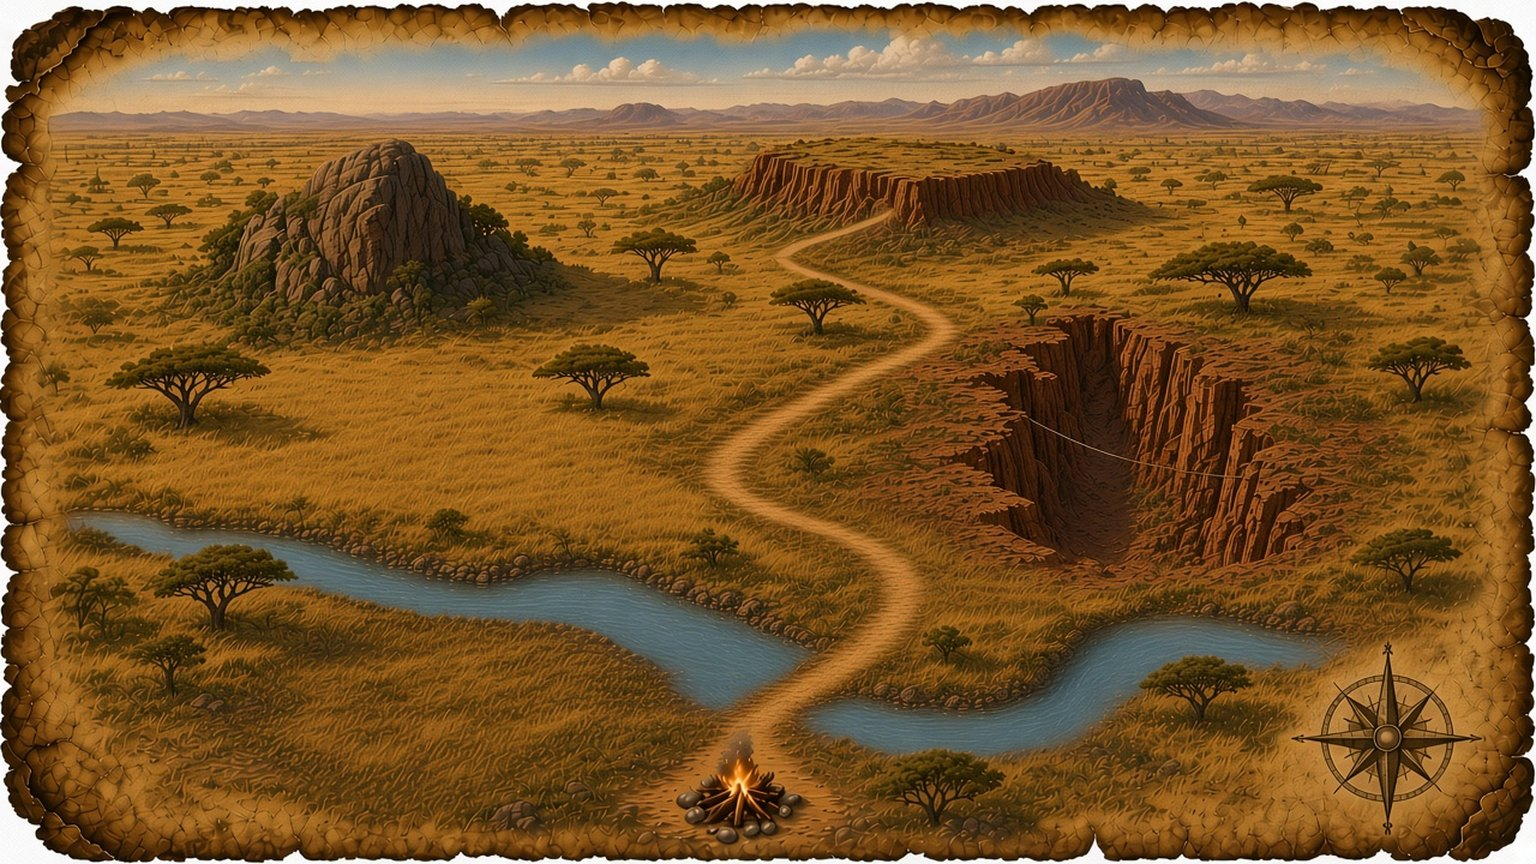
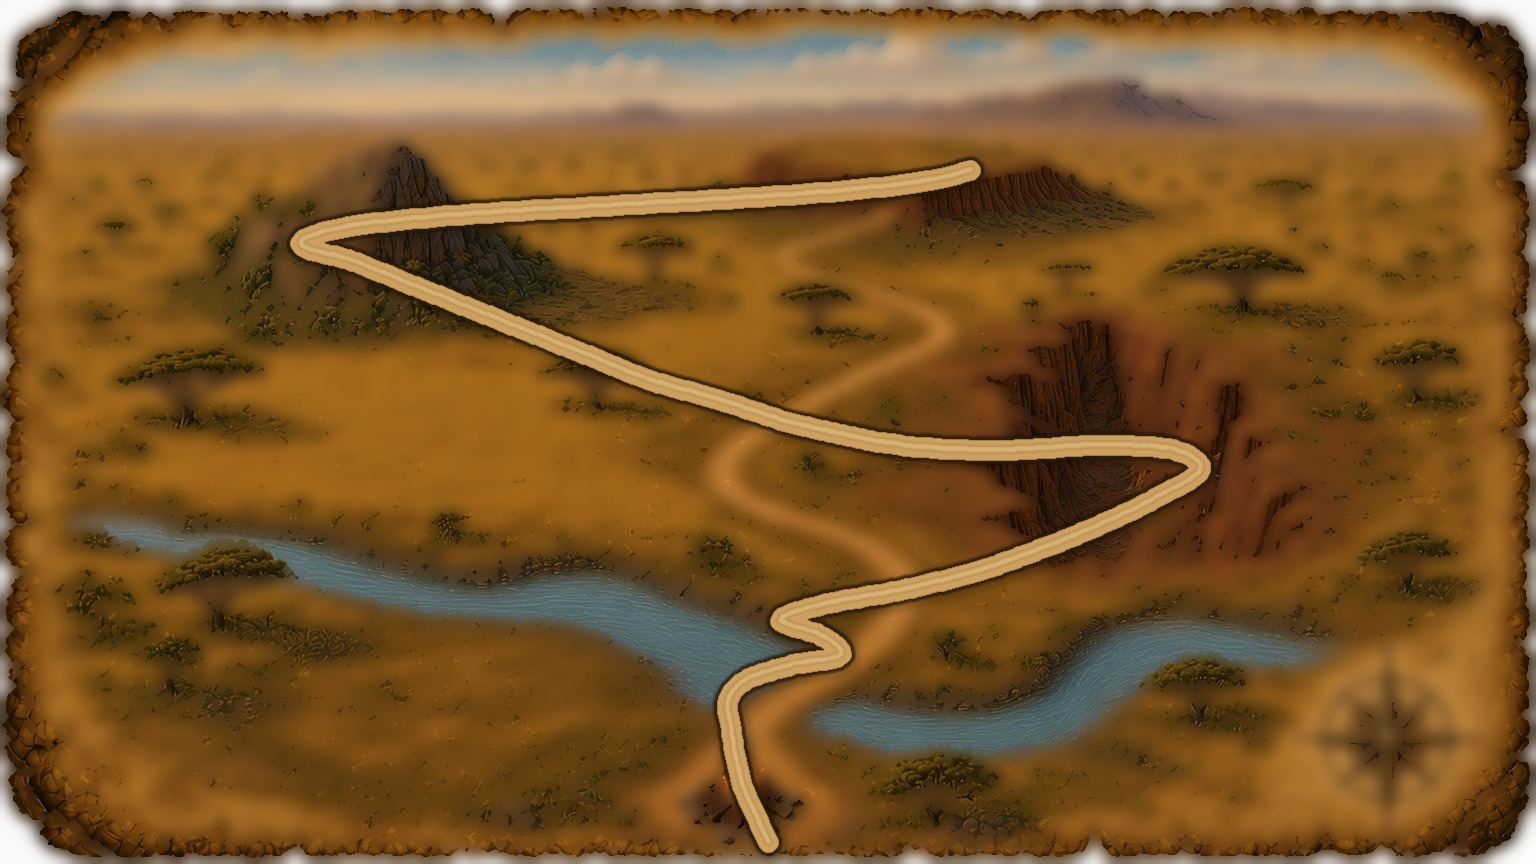
Make painted trail the only path: drop SVG connectors, route dots on centerline
- Remove SVG trail outline/path between milestones; markers sit on the
  painted dirt trail at terrain landmarks (river ford, cave/ridge/lagoon,
  gorge/kopje/mesa, climb/slope/campsite/summit).
- Dense path polylines (~350–480 pts) sample the painted trail centerline
  so progress dots follow it; mountain trail boosted for visibility.
- Map banner subtitle uses mapLabel (e.g. The River) — story names stay
  in setup captions only.

Changed region(s): [[0.0, 0.0, 1.0, 1.0], [0.2188, 0.7812, 0.25, 0.8125], [0.1875, 0.8125, 0.2188, 0.8438]]

diff --git a/index.html b/index.html
@@ -396,8 +396,7 @@ img.cv.kb { animation:kb 9s ease-out forwards; }
 .mapbox .mname { font-size:clamp(0.8rem, 2.3vh, 1.15rem); }
 .mapbox .mlb { right:2%; bottom:2%; min-width:48px; height:48px; font-size:1.2rem; }
 @keyframes mapIn { from { opacity:0; transform:scale(1.08) rotate(-1.5deg); } to { opacity:1; transform:none; } }
-.trail-outline { fill:none; stroke:#3a2410; stroke-width:11; stroke-linecap:round; stroke-linejoin:round; opacity:.42; }
-.trail-path { fill:none; stroke:#d2a86a; stroke-width:6; stroke-linecap:round; stroke-linejoin:round; opacity:.72; }
+.trail-outline, .trail-path { display:none; }
 .mlab rect { fill:rgba(20,12,4,.78); stroke:#f3c65a; stroke-width:2; rx:10; }
 .mlab text { fill:#fff3d0; font:800 20px "Cinzel MVM", Georgia, serif; text-anchor:middle; dominant-baseline:central; }
 .mlab.cur rect { fill:rgba(140,30,18,.88); stroke:#ffd43b; }
@@ -1748,31 +1747,180 @@ const ASSET = n => "assets/" + n;
 const DEV = /[?&]dev=1\b/.test(location.search);
 const EP_INFO = [
   { name: "The Jungle", filter: "", soon: "", map: "map-jungle-wide", rendezvous: "The Lagoon",
-    pts: [[768, 820], [690, 700], [1100, 470], [380, 340], [790, 235]],
-    lab: [[125, -5], [50, 55], [75, 40], [-115, 25], [10, 55]],
+    pts: [[768, 812], [641, 655], [1120, 440], [350, 309], [895, 215]],
+    lab: [[125, -5], [50, 55], [70, 42], [-115, 28], [10, 55]],
     path: [
-      [768,820],[750,805],[735,785],[720,760],[705,735],[695,715],[690,700],
-      [710,685],[760,670],[820,655],[880,635],[940,610],[990,580],[1040,545],[1075,510],[1100,470],
-      [1070,455],[1010,445],[940,435],[860,420],[780,405],[700,390],[620,375],[540,360],[460,350],[380,340],
-      [420,325],[490,310],[570,295],[650,280],[720,260],[760,245],[790,235]
+      [768,812],[765,808],[761,803],[758,799],[755,795],[751,791],[747,787],[743,783],
+      [739,780],[734,776],[730,772],[726,769],[722,765],[718,762],[713,758],[709,754],
+      [705,750],[701,746],[697,742],[693,737],[689,733],[686,729],[682,725],[679,721],
+      [675,717],[672,713],[668,709],[665,704],[661,700],[659,696],[656,692],[653,688],
+      [650,683],[648,679],[646,675],[645,671],[645,667],[646,662],[648,658],[650,654],
+      [653,651],[656,647],[660,645],[664,642],[669,640],[674,638],[678,636],[678,636],
+      [673,639],[669,641],[665,644],[660,646],[656,649],[651,651],[647,653],[643,654],
+      [639,655],[635,654],[631,652],[627,648],[624,644],[620,640],[616,637],[611,633],
+      [606,629],[602,625],[600,621],[600,617],[602,613],[605,609],[609,606],[613,603],
+      [617,601],[622,599],[626,598],[631,597],[636,596],[641,595],[647,594],[653,593],
+      [659,592],[665,592],[671,591],[677,590],[683,590],[689,589],[696,589],[702,588],
+      [709,588],[716,588],[722,587],[729,587],[735,586],[741,586],[747,585],[753,585],
+      [758,584],[764,583],[770,583],[775,582],[781,581],[786,580],[790,579],[794,578],
+      [799,576],[801,572],[800,568],[796,564],[792,561],[787,558],[782,556],[778,554],
+      [774,553],[768,552],[762,551],[756,550],[750,550],[744,549],[738,548],[732,547],
+      [726,547],[722,546],[718,544],[713,543],[709,541],[704,538],[700,536],[698,532],
+      [702,529],[706,528],[710,527],[715,526],[720,525],[726,524],[733,523],[739,522],
+      [746,521],[753,521],[760,520],[767,519],[774,519],[782,518],[790,518],[798,518],
+      [807,517],[815,517],[824,517],[833,516],[841,516],[850,515],[859,514],[868,514],
+      [877,513],[886,512],[895,511],[905,510],[914,509],[923,508],[932,507],[941,506],
+      [950,505],[959,504],[967,503],[976,501],[985,500],[993,499],[1002,497],[1010,496],
+      [1018,495],[1026,493],[1033,492],[1040,490],[1047,488],[1053,487],[1059,485],[1065,483],
+      [1071,481],[1076,479],[1082,477],[1087,476],[1091,474],[1096,472],[1100,470],[1104,468],
+      [1108,466],[1113,463],[1118,460],[1123,457],[1127,453],[1130,449],[1130,445],[1126,442],
+      [1122,441],[1118,439],[1114,438],[1109,436],[1104,435],[1099,433],[1095,432],[1090,432],
+      [1085,431],[1080,430],[1074,429],[1068,429],[1061,428],[1054,427],[1046,427],[1039,426],
+      [1031,426],[1023,425],[1015,425],[1007,425],[1000,425],[993,425],[985,426],[978,427],
+      [971,428],[964,429],[956,430],[949,431],[942,432],[935,433],[927,434],[920,435],
+      [913,436],[905,437],[898,438],[891,439],[884,440],[876,441],[869,442],[862,443],
+      [855,443],[847,444],[840,445],[833,446],[825,446],[818,447],[811,448],[804,448],
+      [796,449],[789,449],[782,449],[775,450],[767,450],[760,450],[753,450],[745,450],
+      [738,450],[730,449],[723,449],[715,449],[708,448],[700,447],[693,447],[687,446],
+      [680,445],[674,444],[668,443],[662,442],[656,440],[650,439],[645,438],[640,436],
+      [634,435],[629,433],[625,432],[620,430],[616,428],[611,427],[607,425],[603,423],
+      [599,421],[594,418],[589,416],[584,413],[579,409],[574,405],[571,401],[568,397],
+      [564,393],[560,390],[554,386],[549,383],[544,381],[540,379],[536,377],[532,375],
+      [528,373],[524,372],[520,370],[516,368],[512,367],[507,366],[503,364],[498,363],
+      [493,362],[489,360],[484,359],[479,358],[475,356],[470,355],[465,354],[461,352],
+      [456,351],[451,350],[447,348],[442,347],[437,345],[433,344],[428,343],[424,341],
+      [420,340],[416,339],[412,337],[408,336],[404,335],[399,332],[395,331],[390,329],
+      [385,327],[380,325],[375,323],[370,321],[366,320],[361,318],[356,315],[352,313],
+      [350,309],[351,305],[354,302],[358,300],[362,298],[368,296],[372,294],[376,293],
+      [380,292],[385,291],[390,290],[396,290],[401,289],[407,288],[414,287],[420,286],
+      [427,285],[433,285],[441,284],[448,283],[456,283],[464,282],[472,281],[481,281],
+      [490,280],[498,280],[507,279],[516,278],[524,278],[533,277],[542,276],[551,276],
+      [560,275],[569,274],[579,274],[588,273],[597,272],[606,271],[615,270],[625,270],
+      [634,269],[643,268],[653,267],[662,265],[671,264],[681,263],[690,262],[699,261],
+      [707,260],[716,259],[724,257],[732,256],[740,255],[748,254],[755,253],[762,252],
+      [770,251],[777,249],[784,248],[790,247],[797,246],[803,244],[809,243],[815,242],
+      [821,240],[827,239],[833,238],[838,236],[843,235],[848,233],[853,232],[858,231],
+      [862,229],[866,228],[870,226],[874,225],[878,223],[883,221],[889,218],[893,216],
+      [895,215]
     ] },
   { name: "The Savanna", filter: "", soon: "", map: "map-savanna-wide", rendezvous: "The Ravine",
-    pts: [[760, 845], [735, 705], [1140, 490], [290, 275], [830, 205]],
+    pts: [[768, 842], [728, 701], [1200, 471], [300, 245], [970, 170]],
     lab: [[125, -5], [45, 52], [70, 42], [-105, 30], [15, 55]],
     path: [
-      [760,845],[755,820],[748,790],[742,755],[738,730],[735,705],
-      [780,685],[850,660],[920,630],[990,595],[1050,555],[1100,520],[1140,490],
-      [1080,470],[1000,450],[900,425],[780,400],[650,370],[520,340],[400,310],[330,290],[290,275],
-      [350,260],[450,245],[560,230],[680,218],[760,210],[830,205]
+      [768,842],[766,838],[764,834],[762,830],[760,826],[758,820],[756,816],[754,812],
+      [752,808],[750,804],[748,800],[746,795],[744,790],[742,786],[741,782],[740,778],
+      [739,773],[738,769],[737,765],[736,760],[735,756],[734,752],[733,747],[733,742],
+      [732,738],[731,734],[731,729],[730,724],[729,719],[728,715],[727,711],[727,707],
+      [727,703],[728,699],[730,695],[732,691],[736,687],[740,683],[744,681],[748,678],
+      [753,676],[757,675],[761,673],[765,672],[770,671],[774,669],[779,668],[783,667],
+      [788,666],[792,664],[797,663],[802,663],[808,662],[814,661],[819,660],[824,660],
+      [829,659],[833,658],[837,657],[841,654],[840,650],[837,646],[832,642],[827,639],
+      [821,636],[817,633],[813,632],[808,631],[804,629],[799,628],[794,627],[789,625],
+      [784,623],[780,621],[782,617],[787,615],[791,613],[797,611],[802,610],[807,608],
+      [812,607],[817,606],[823,604],[829,603],[835,602],[842,600],[850,599],[858,598],
+      [865,596],[873,595],[881,594],[889,592],[896,591],[904,589],[911,588],[918,586],
+      [926,584],[933,582],[941,581],[948,579],[955,577],[962,575],[970,573],[977,571],
+      [983,569],[990,567],[997,565],[1003,562],[1010,560],[1016,558],[1023,555],[1029,553],
+      [1035,551],[1041,548],[1047,546],[1053,544],[1059,542],[1065,539],[1070,537],[1076,535],
+      [1081,532],[1087,530],[1092,528],[1097,526],[1102,523],[1107,521],[1112,519],[1117,517],
+      [1122,514],[1127,512],[1132,510],[1136,508],[1141,505],[1145,503],[1150,501],[1154,498],
+      [1158,496],[1162,494],[1166,492],[1171,489],[1176,487],[1180,485],[1185,482],[1189,480],
+      [1194,476],[1198,473],[1200,469],[1200,465],[1197,461],[1193,458],[1189,455],[1185,453],
+      [1181,452],[1177,451],[1173,449],[1168,448],[1162,448],[1156,447],[1149,446],[1142,446],
+      [1135,446],[1127,445],[1120,445],[1112,445],[1104,445],[1096,445],[1088,445],[1079,446],
+      [1070,446],[1061,447],[1052,448],[1042,448],[1033,449],[1023,449],[1014,450],[1005,450],
+      [995,450],[986,450],[977,450],[968,450],[959,449],[950,449],[941,449],[932,448],
+      [923,447],[914,447],[905,446],[895,444],[886,443],[877,442],[867,440],[858,438],
+      [849,436],[839,434],[830,432],[821,430],[813,428],[804,426],[796,424],[788,422],
+      [780,420],[773,417],[765,415],[758,412],[751,410],[744,408],[737,405],[730,403],
+      [723,401],[717,399],[710,397],[703,395],[696,393],[690,391],[683,390],[677,388],
+      [670,386],[664,384],[658,383],[653,381],[647,379],[642,377],[637,375],[633,374],
+      [628,372],[624,370],[619,368],[615,366],[611,365],[607,363],[602,361],[598,359],
+      [593,357],[589,355],[584,354],[580,352],[575,350],[570,348],[566,346],[561,345],
+      [557,343],[552,341],[548,339],[543,337],[539,335],[534,334],[530,332],[525,330],
+      [520,328],[516,326],[511,325],[507,323],[502,321],[498,319],[493,317],[489,315],
+      [484,314],[480,312],[475,310],[470,308],[466,306],[461,305],[457,303],[452,301],
+      [448,299],[443,297],[439,295],[434,294],[430,292],[425,290],[420,288],[416,286],
+      [411,285],[407,283],[402,281],[398,279],[393,277],[389,275],[384,273],[380,272],
+      [375,270],[370,268],[366,266],[361,264],[357,262],[352,261],[348,259],[343,258],
+      [337,256],[331,255],[326,254],[320,252],[315,251],[310,250],[306,248],[302,246],
+      [300,243],[303,239],[308,237],[313,235],[317,234],[321,232],[325,231],[330,230],
+      [335,229],[340,228],[345,227],[351,226],[357,225],[364,224],[371,223],[378,222],
+      [385,222],[392,221],[400,220],[408,219],[416,218],[425,218],[433,217],[442,216],
+      [452,215],[461,215],[470,214],[480,213],[490,213],[500,212],[510,211],[521,211],
+      [531,210],[542,209],[553,209],[564,208],[576,208],[587,207],[598,206],[609,206],
+      [620,205],[631,204],[642,204],[653,203],[664,202],[675,202],[686,201],[697,201],
+      [708,200],[719,199],[729,199],[740,198],[750,197],[761,197],[772,196],[782,195],
+      [792,195],[803,194],[813,193],[822,192],[832,192],[841,191],[850,190],[859,189],
+      [867,188],[875,187],[883,187],[891,186],[898,185],[905,184],[912,183],[918,182],
+      [924,181],[930,180],[935,179],[940,178],[945,177],[949,176],[953,175],[957,174],
+      [962,172],[966,171],[970,170]
     ] },
   { name: "Mountain Crossing", filter: "", soon: "", map: "map-mountain-wide", rendezvous: "The Summit",
-    pts: [[768, 815], [420, 605], [1120, 430], [390, 345], [780, 225]],
+    pts: [[768, 830], [355, 565], [1220, 380], [310, 269], [899, 165]],
     lab: [[125, -5], [-105, 38], [70, 42], [-115, 32], [5, 55]],
     path: [
-      [768,815],[730,790],[670,755],[590,710],[510,660],[455,630],[420,605],
-      [470,585],[560,560],[670,535],[800,505],[940,470],[1040,450],[1120,430],
-      [1040,415],[920,395],[780,375],[620,360],[500,350],[390,345],
-      [460,320],[560,290],[660,265],[730,245],[780,225]
+      [768,830],[765,826],[761,822],[756,817],[752,812],[748,808],[744,804],[739,800],
+      [733,794],[729,790],[725,788],[722,785],[717,781],[713,778],[710,775],[707,772],
+      [703,770],[698,765],[694,763],[691,760],[687,757],[682,753],[678,750],[674,748],
+      [670,745],[666,742],[662,739],[657,737],[653,734],[648,731],[644,728],[639,726],
+      [634,723],[630,720],[625,718],[620,715],[615,713],[610,710],[605,708],[600,706],
+      [595,703],[590,701],[585,699],[580,697],[575,694],[570,692],[565,690],[560,688],
+      [555,685],[550,683],[545,681],[540,679],[535,676],[530,674],[525,672],[520,670],
+      [515,667],[510,665],[505,663],[500,660],[495,658],[490,656],[484,654],[479,651],
+      [474,649],[469,647],[464,645],[460,642],[455,640],[450,638],[446,635],[442,633],
+      [437,631],[433,629],[429,626],[425,624],[421,622],[417,620],[413,617],[408,614],
+      [404,610],[399,607],[394,602],[390,599],[385,595],[382,592],[377,588],[371,583],
+      [365,578],[361,575],[358,571],[355,567],[355,563],[357,559],[360,555],[364,552],
+      [369,549],[374,547],[378,546],[382,544],[387,543],[392,543],[398,542],[404,541],
+      [411,541],[418,541],[425,540],[432,540],[439,540],[446,540],[454,540],[461,540],
+      [469,541],[477,541],[485,542],[494,542],[502,543],[511,544],[519,544],[528,545],
+      [536,545],[544,545],[552,545],[560,545],[569,544],[577,544],[585,543],[593,543],
+      [601,542],[610,542],[618,541],[626,540],[634,540],[642,539],[651,538],[659,537],
+      [667,537],[676,536],[684,535],[692,534],[700,533],[708,532],[716,531],[724,529],
+      [732,528],[741,527],[750,526],[758,524],[767,523],[775,521],[782,520],[789,519],
+      [794,517],[800,515],[803,512],[802,508],[797,505],[792,503],[787,502],[782,500],
+      [778,500],[772,499],[765,498],[758,498],[750,497],[742,497],[734,497],[725,497],
+      [717,496],[710,496],[703,495],[697,495],[691,494],[684,493],[678,492],[671,491],
+      [666,490],[660,489],[656,488],[651,487],[652,484],[657,483],[662,482],[669,481],
+      [676,480],[683,479],[691,478],[700,477],[708,476],[716,475],[724,475],[732,474],
+      [740,473],[749,472],[758,471],[768,470],[777,469],[786,469],[796,468],[806,467],
+      [815,466],[825,464],[835,463],[845,462],[855,461],[865,459],[875,458],[885,457],
+      [895,455],[905,454],[915,452],[925,451],[935,449],[944,448],[954,446],[963,444],
+      [972,442],[981,440],[990,438],[999,437],[1008,435],[1017,433],[1026,431],[1034,429],
+      [1043,427],[1052,425],[1060,423],[1069,422],[1078,420],[1086,418],[1094,416],[1102,414],
+      [1109,412],[1117,411],[1123,409],[1130,408],[1136,406],[1142,405],[1148,404],[1153,402],
+      [1158,401],[1163,400],[1168,398],[1173,397],[1178,396],[1182,394],[1187,393],[1192,392],
+      [1197,390],[1202,389],[1206,388],[1210,386],[1214,385],[1219,382],[1219,378],[1215,375],
+      [1211,373],[1205,371],[1201,370],[1196,368],[1191,367],[1185,366],[1180,365],[1174,364],
+      [1168,363],[1162,363],[1155,362],[1147,361],[1140,361],[1132,361],[1124,360],[1116,360],
+      [1108,360],[1100,360],[1092,360],[1083,360],[1074,361],[1065,361],[1056,362],[1047,362],
+      [1037,363],[1028,363],[1018,364],[1009,365],[1000,365],[991,365],[982,366],[973,367],
+      [964,367],[955,368],[945,368],[936,369],[927,369],[918,370],[909,370],[900,370],
+      [891,370],[882,370],[873,369],[864,369],[855,369],[845,368],[836,368],[827,367],
+      [818,366],[809,366],[800,365],[791,364],[782,363],[772,363],[763,362],[753,361],
+      [744,360],[735,359],[726,358],[717,357],[708,356],[700,355],[692,354],[684,353],
+      [676,352],[669,351],[661,350],[654,350],[647,349],[640,348],[633,347],[626,346],
+      [620,345],[614,344],[608,343],[602,342],[597,342],[591,341],[586,340],[581,339],
+      [576,338],[571,337],[565,336],[560,335],[555,334],[549,333],[543,331],[538,330],
+      [532,329],[527,327],[521,326],[516,324],[510,323],[505,321],[500,320],[495,319],
+      [490,317],[486,316],[481,315],[477,313],[472,312],[468,310],[463,309],[459,308],
+      [455,306],[450,305],[445,304],[441,302],[436,301],[432,299],[427,298],[423,297],
+      [418,295],[414,294],[409,293],[405,291],[400,290],[395,289],[391,288],[386,286],
+      [381,285],[377,284],[372,283],[367,282],[363,281],[358,280],[354,279],[350,278],
+      [346,277],[341,276],[336,275],[332,275],[327,274],[323,273],[319,272],[314,271],
+      [310,269],[311,265],[314,262],[320,258],[325,255],[329,254],[333,252],[338,251],
+      [342,249],[347,248],[353,247],[359,246],[365,245],[371,244],[378,243],[385,243],
+      [392,242],[399,241],[406,240],[414,240],[421,239],[429,239],[437,238],[445,238],
+      [454,237],[462,237],[471,237],[479,236],[488,236],[496,235],[504,235],[512,234],
+      [520,234],[529,233],[537,232],[545,232],[553,231],[561,231],[570,230],[578,229],
+      [586,228],[594,228],[602,227],[611,226],[619,225],[627,224],[636,223],[644,222],
+      [652,222],[660,221],[668,220],[676,219],[684,217],[692,216],[699,215],[707,214],
+      [714,213],[722,212],[729,210],[736,209],[743,208],[750,207],[757,206],[763,204],
+      [769,203],[775,202],[781,201],[786,200],[792,199],[797,197],[802,196],[807,195],
+      [812,194],[817,193],[822,191],[827,190],[832,189],[837,188],[842,186],[847,185],
+      [851,184],[856,182],[860,181],[864,180],[868,179],[872,177],[877,175],[882,173],
+      [887,171],[892,169],[897,167],[899,165]
     ] }
 ];
 const LV_INFO = [
@@ -1938,7 +2086,8 @@ const Cine = (() => {
         else arrive();
       };
       function buildSvg() {
-        let svg = '<path class="trail-outline" d="' + polyPath(PATH) + '"/><path class="trail-path" d="' + polyPath(PATH) + '"/>';
+        // Painted trail in the map art is the only path — no SVG connector lines.
+        let svg = '';
         for (let k = 0; k < lv; k++) dotsAlong(pathSlice(PATH, MAP_PTS[k], MAP_PTS[k + 1]), 30).forEach(p => { svg += '<circle class="dot old" cx="' + p[0].toFixed(1) + '" cy="' + p[1].toFixed(1) + '" r="6"/>'; });
         dotsAlong(pathSlice(PATH, MAP_PTS[lv], MAP_PTS[lv + 1]), 28).forEach(p => { svg += '<circle class="dot nd" cx="' + p[0].toFixed(1) + '" cy="' + p[1].toFixed(1) + '" r="8"/>'; });
         svg += '<g class="mk start" transform="translate(' + MAP_PTS[0][0] + "," + MAP_PTS[0][1] + ')"><circle class="ring" r="17"/><text style="font-size:18px">★</text></g>';
@@ -1970,7 +2119,7 @@ const Cine = (() => {
         timers.forEach(clearTimeout); timers = [];
         const prevI = i, prevArrived = arrived, hadProgress = keepProgress;
         show('<div class="cscreen map"><div class="mapbox"><img src="' + ASSET(mapImg + ".webp") + '" onerror="this.onerror=null;this.src=\'' + ASSET(mapImg + ".jpg") + '\'" alt="" style="filter:' + (E.filter || "none") + '"><svg viewBox="0 0 1536 864" preserveAspectRatio="none">' + buildSvg() +
-          '</svg><div class="mban"><div class="mep">Episode ' + (ep + 1) + " · " + E.name + '</div><div class="mlv">Level ' + (lv + 1) + '</div><div class="mname">' + L.name + "</div></div>" +
+          '</svg><div class="mban"><div class="mep">Episode ' + (ep + 1) + " · " + E.name + '</div><div class="mlv">Level ' + (lv + 1) + '</div><div class="mname">' + (L.mapLabel || L.name) + "</div></div>" +
           (soon ? '<div class="msoon">' + soon + "</div>" : "") + '<button class="mlb" data-cine="lb" aria-label="Leaderboard">🏆</button>' +
           (choice ? '<div class="mchoice"><button class="mcbtn cprimary" data-cine="mcont">Continue ▶</button>' + (showSave ? '<button class="mcbtn sec" data-cine="msave">Save for Later</button>' : "") + "</div>" : "") + "</div></div>");
         dots = Array.from(root.querySelectorAll(".dot.nd"));
@@ -2503,8 +2652,10 @@ if (DEV) {
     const parts = mapQ.split(/[,:]/).map(n => +n || 0);
     const ep = Math.max(0, Math.min(2, parts[0])), lv = Math.max(0, Math.min(3, parts[1] || 0));
     const boostQ = new URLSearchParams(location.search).get("boost");
-    try { ANIM = boostQ ? 1 : 0.001; } catch (e) {}
-    setTimeout(() => { try { window.__MVM && window.__MVM.setAnim && window.__MVM.setAnim(boostQ ? 1 : 0.001); } catch (e) {}
+    const animQ = new URLSearchParams(location.search).get("anim");
+    const animV = boostQ ? 1 : (animQ != null ? Math.max(0.05, parseFloat(animQ) || 1) : 0.001);
+    try { ANIM = animV; } catch (e) {}
+    setTimeout(() => { try { window.__MVM && window.__MVM.setAnim && window.__MVM.setAnim(animV); } catch (e) {}
       Cine.map(ep, lv, { choice: true, showSave: !(ep === 0 && lv === 0) });
       if (boostQ) {
         const bp = boostQ.split(/[,:]/).map(n => +n);
